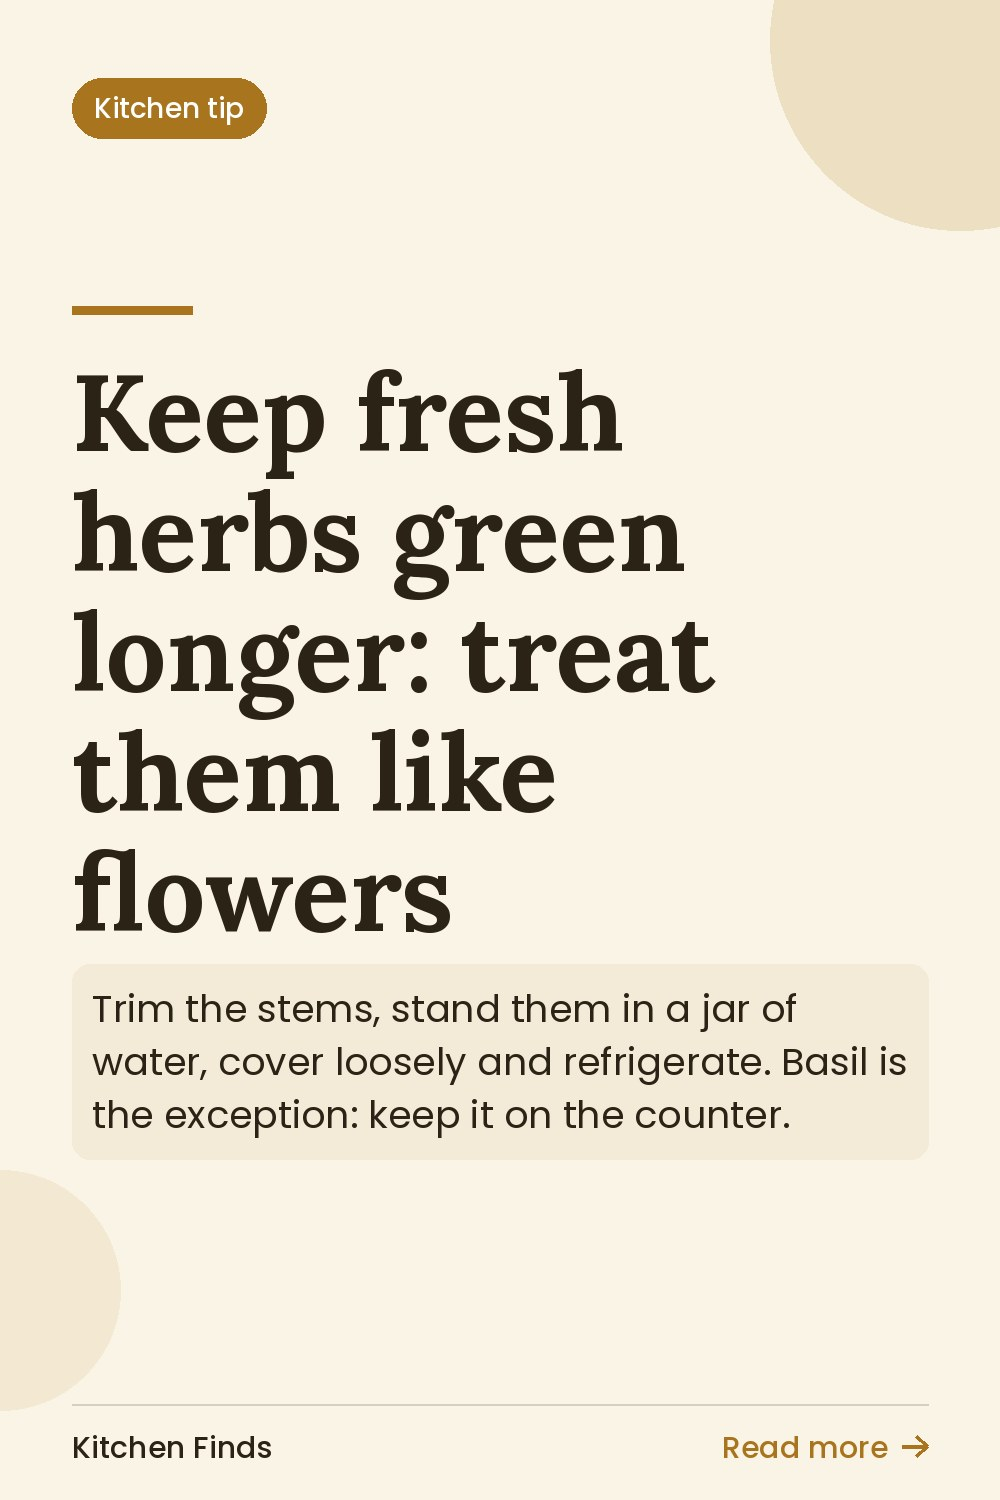
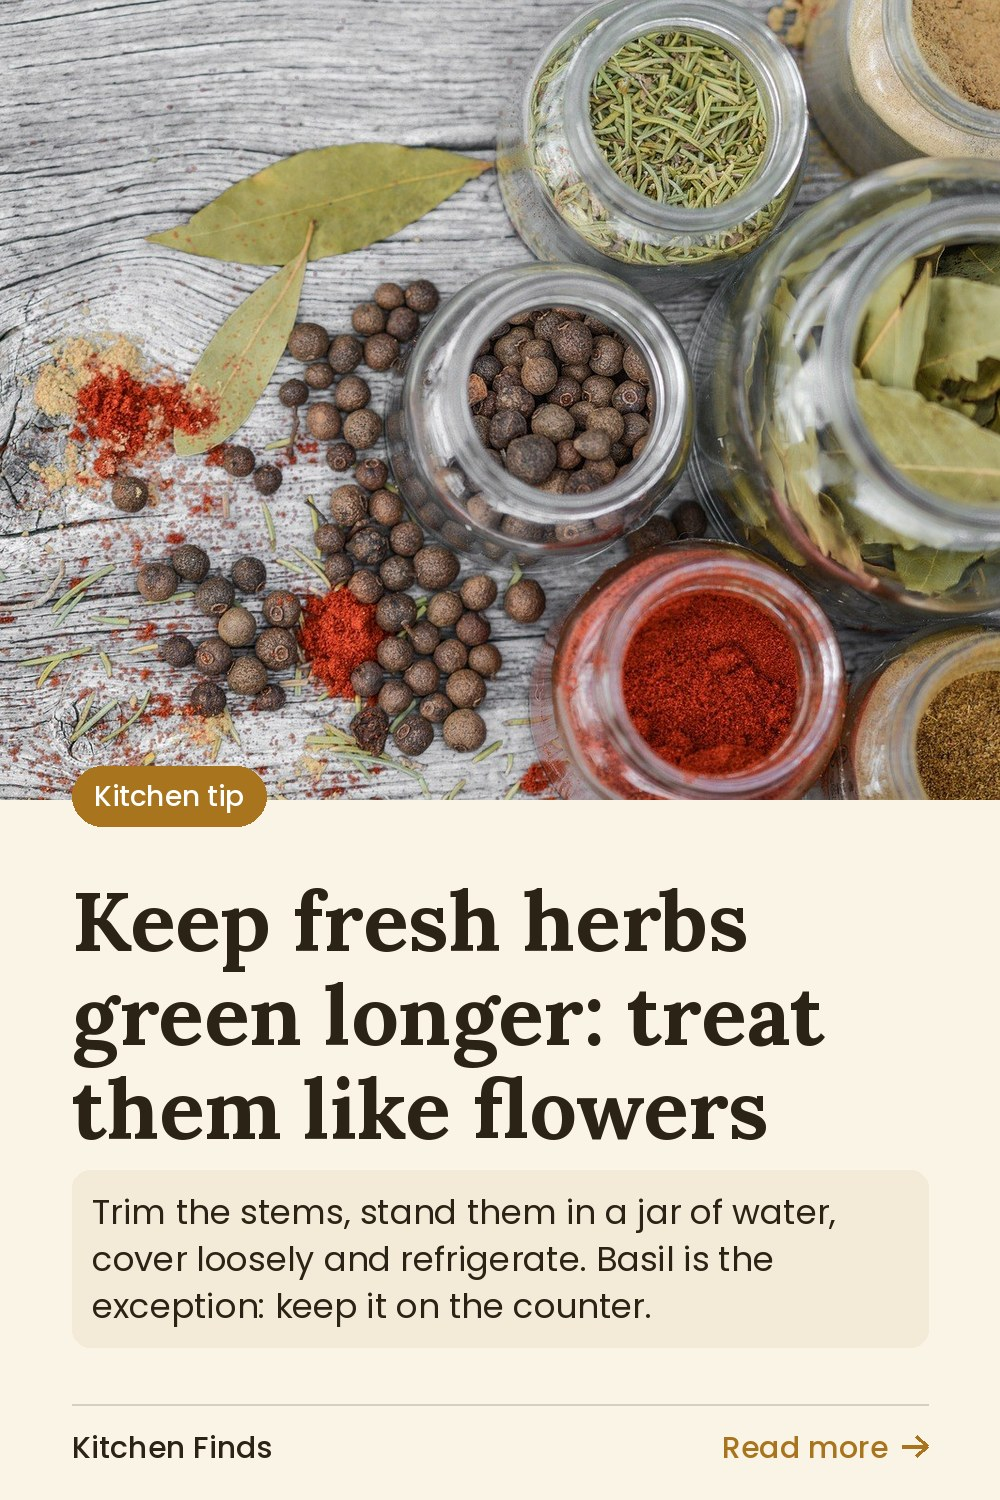
Publish site Kitaffauto/site-source@25757656e4e2619955a3ccf3bdf7fbdfdb8a7e15

diff --git a/small-kitchen-organization-ideas/index.html b/small-kitchen-organization-ideas/index.html
@@ -40,7 +40,7 @@
     
     <figure class="pin-figure">
       <img src="/pins/small-kitchen-organization-ideas.jpg" width="1000" height="1500" alt="7 Small Kitchen Organization Ideas That Free Up Space" loading="eager">
-      
+      <figcaption class="photo-credit">Photo: <a href="https://pixabay.com/photos/olive-oil-olives-food-oil-natural-968657/" rel="noopener" target="_blank">stevepb</a> on <a href="https://pixabay.com" rel="noopener" target="_blank">Pixabay</a></figcaption>
     </figure>
     
     <div class="body">

diff --git a/keep-fresh-herbs-longer/index.html b/keep-fresh-herbs-longer/index.html
@@ -40,7 +40,7 @@
     
     <figure class="pin-figure">
       <img src="/pins/keep-fresh-herbs-longer.jpg" width="1000" height="1500" alt="Keep fresh herbs green longer: treat them like flowers" loading="eager">
-      
+      <figcaption class="photo-credit">Photo: <a href="https://pixabay.com/photos/spices-jars-herbs-herbs-and-spices-2548653/" rel="noopener" target="_blank">monicore</a> on <a href="https://pixabay.com" rel="noopener" target="_blank">Pixabay</a></figcaption>
     </figure>
     
     <div class="body">

diff --git a/kitchen-gadgets-that-save-time/index.html b/kitchen-gadgets-that-save-time/index.html
@@ -40,7 +40,7 @@
     
     <figure class="pin-figure">
       <img src="/pins/kitchen-gadgets-that-save-time.jpg" width="1000" height="1500" alt="6 Small Kitchen Gadgets That Actually Save Time" loading="eager">
-      
+      <figcaption class="photo-credit">Photo: <a href="https://pixabay.com/photos/kitchen-scale-weighing-baking-532651/" rel="noopener" target="_blank">stevepb</a> on <a href="https://pixabay.com" rel="noopener" target="_blank">Pixabay</a></figcaption>
     </figure>
     
     <div class="body">
